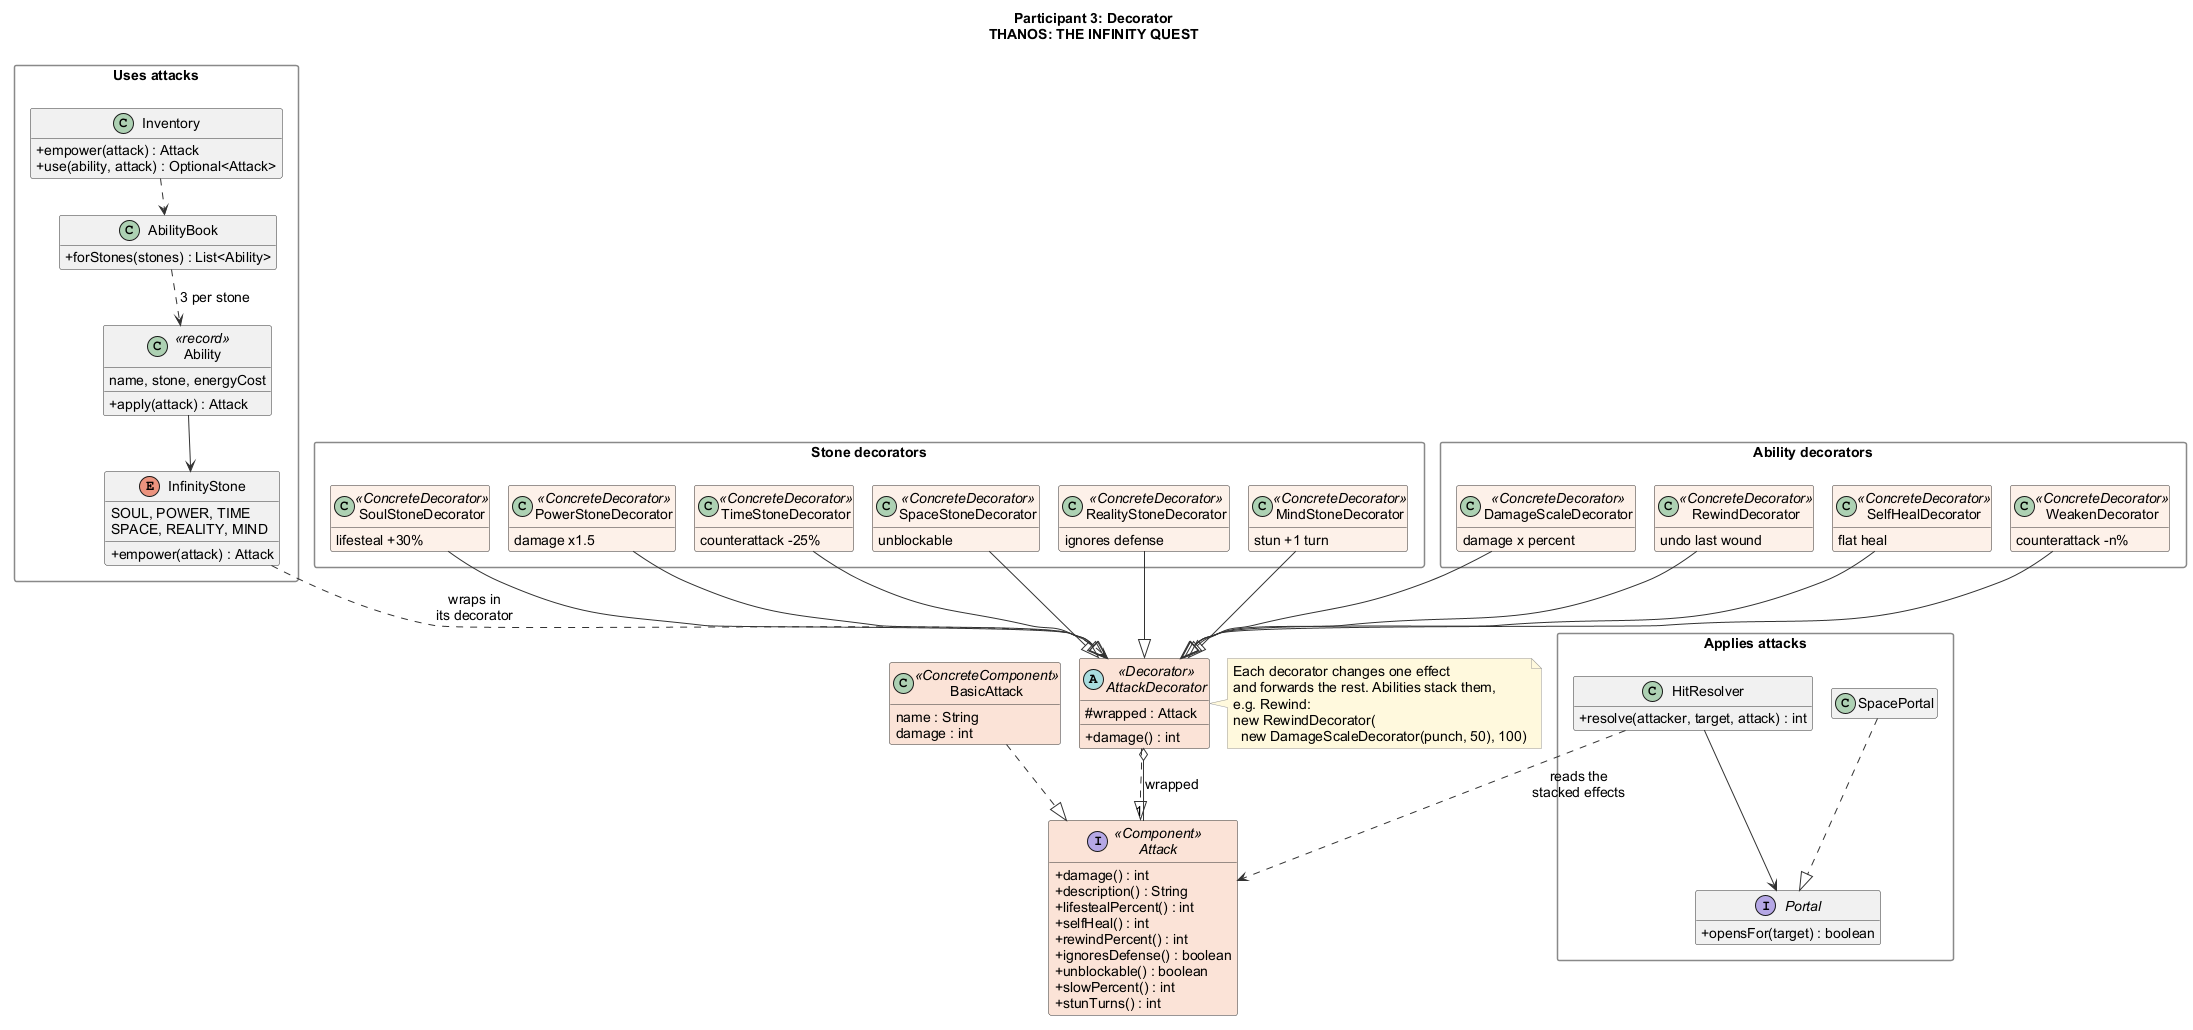
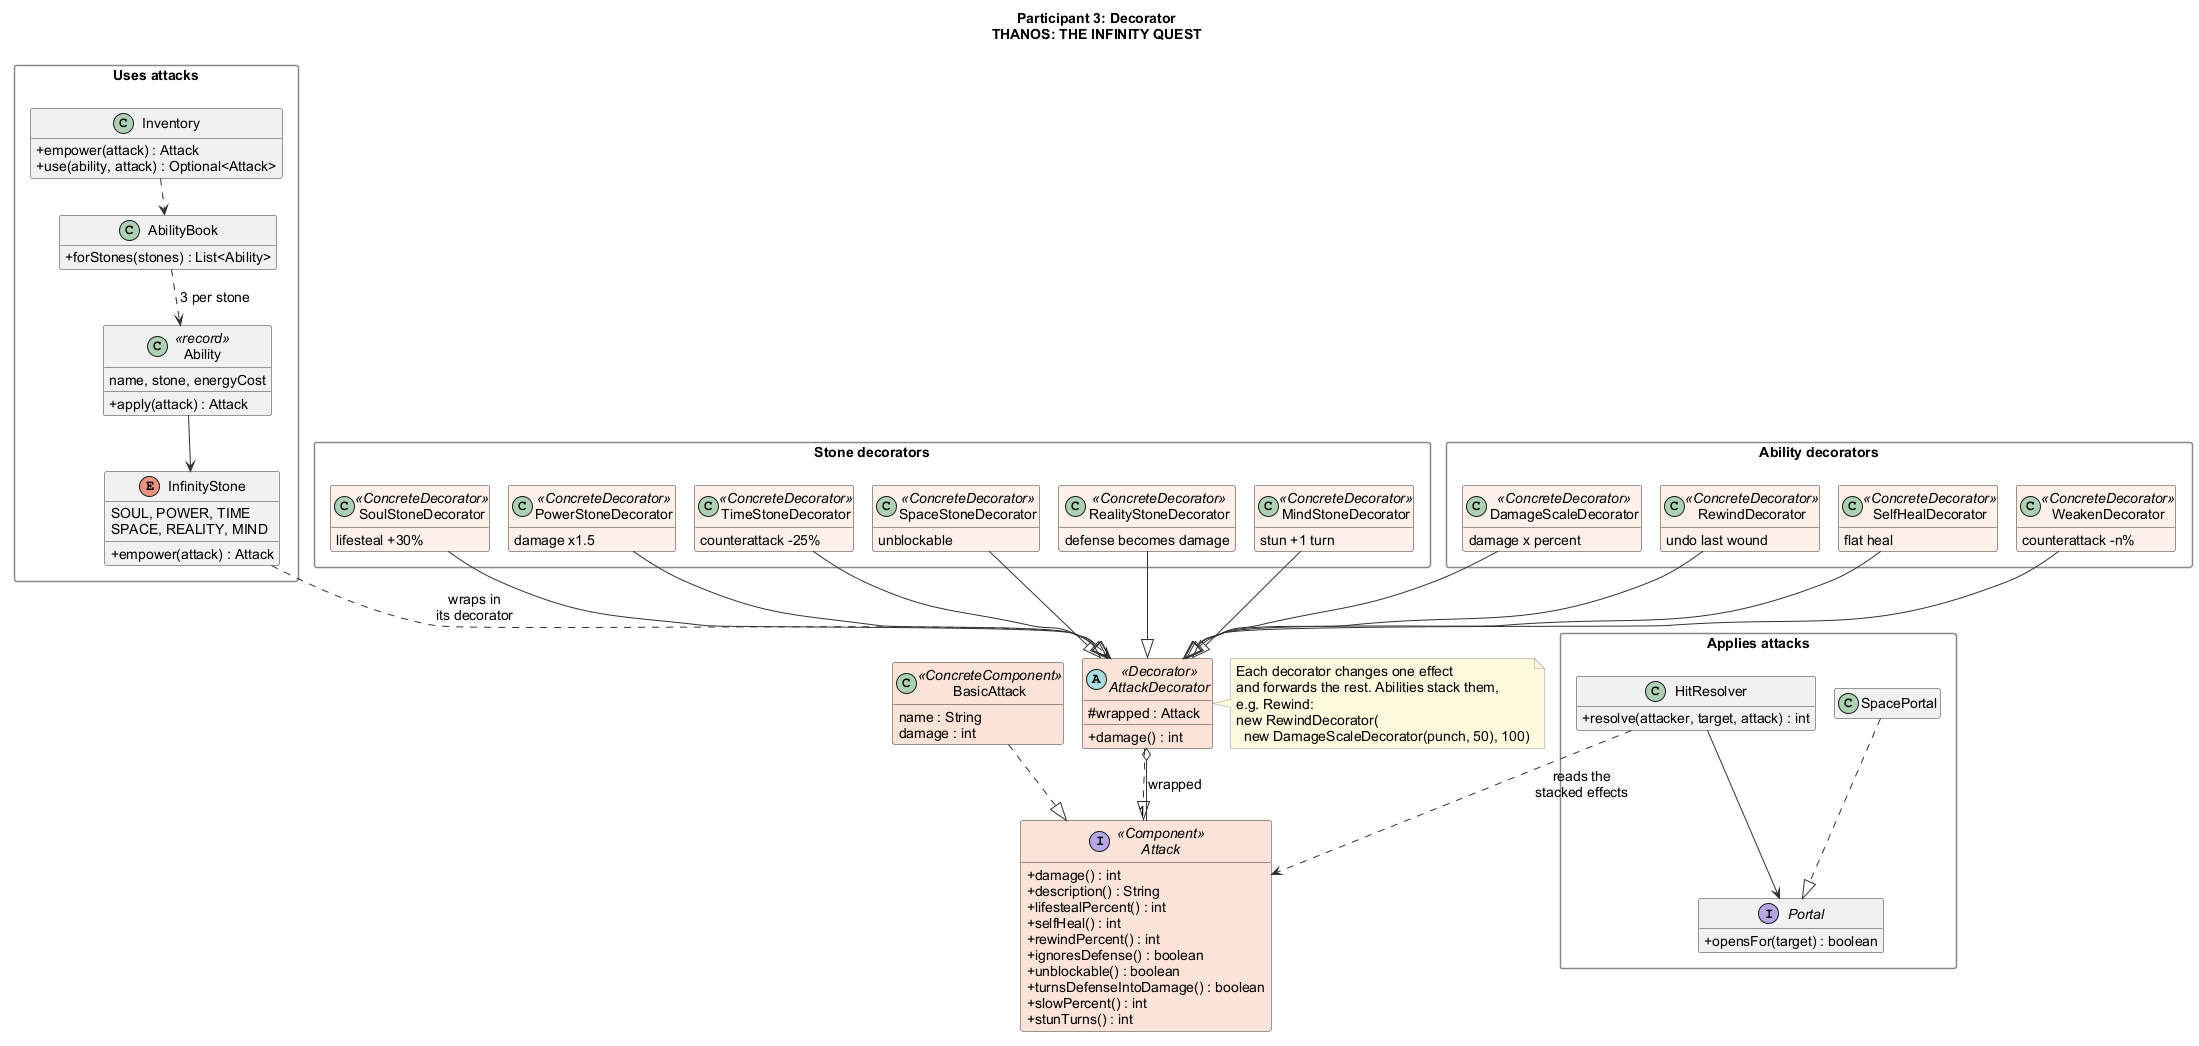
feat: Reality Stone turns enemy defense into extra damage
Space keeps ignoring defense, so the two stones no longer overlap. A new
Attack.turnsDefenseIntoDamage() flag drives it; Reality still reports
ignoresDefense() so code that does not know the flag deals full damage.

diff --git a/participant3/src/main/java/com/thanos/participant3/patterns/decorator/HitResolver.java b/participant3/src/main/java/com/thanos/participant3/patterns/decorator/HitResolver.java
@@ -28,8 +28,7 @@ public final class HitResolver {
         if (attacker == null || target == null || attack == null) {
             throw new IllegalArgumentException("Attacker, target and attack are required");
         }
-        int dealt = attack.ignoresDefense() || attack.unblockable()
-                ? attack.damage() : applyDefense(attack.damage(), target.defense());
+        int dealt = damageAgainst(attack, target.defense());
         if (portal.opensFor(target)) {
             lastWound.put(target.name(), 0);
             sendBack(attacker, target, dealt);
@@ -55,8 +54,17 @@ public final class HitResolver {
 
     /** Defense is a percent of damage blocked, capped at 80. */
     public static int applyDefense(int damage, int defense) {
-        return damage * (100 - Math.max(0, Math.min(MAX_DEFENSE, defense))) / 100;
+        return damage * (100 - clampDefense(defense)) / 100;
     }
+
+    /** Reality turns defense into extra damage; Space and Reality pass through it; anything else is blocked. */
+    public static int damageAgainst(Attack attack, int defense) {
+        if (attack.turnsDefenseIntoDamage()) return attack.damage() * (100 + clampDefense(defense)) / 100;
+        if (attack.ignoresDefense() || attack.unblockable()) return attack.damage();
+        return applyDefense(attack.damage(), defense);
+    }
+
+    private static int clampDefense(int defense) { return Math.max(0, Math.min(MAX_DEFENSE, defense)); }
 
     public int lastWound(Combatant combatant) { return lastWound.getOrDefault(combatant.name(), 0); }
 

diff --git a/participant3/src/test/java/com/thanos/participant3/AttackDecoratorTest.java b/participant3/src/test/java/com/thanos/participant3/AttackDecoratorTest.java
@@ -22,11 +22,11 @@ class AttackDecoratorTest {
         Attack combo = new RealityStoneDecorator(new TimeStoneDecorator(new PowerStoneDecorator(punch)));
 
         assertEquals(75, combo.damage());
-        assertTrue(combo.ignoresDefense());
+        assertTrue(combo.turnsDefenseIntoDamage());
         assertEquals(TimeStoneDecorator.SLOW_PERCENT, combo.slowPercent());
         assertFalse(combo.unblockable());
         assertEquals("Punch (50) + Power Stone (x1.5 damage) + Time Stone (counterattack -25%)"
-                + " + Reality Stone (ignores defense)", combo.description());
+                + " + Reality Stone (defense becomes damage)", combo.description());
     }
 
     @Test
@@ -40,12 +40,14 @@ class AttackDecoratorTest {
     }
 
     @Test
-    void realityStoneIgnoresDefense() {
+    void defenseBlocksSpaceIgnoresRealityUses() {
         HitResolver resolver = new HitResolver(new EventBus());
         FakeCombatant thanos = new FakeCombatant("Thanos", 1000, 1000, 0);
 
         assertEquals(35, resolver.resolve(thanos, new FakeCombatant("Champion", 500, 500, 30), punch));
         assertEquals(50, resolver.resolve(thanos, new FakeCombatant("Champion", 500, 500, 30),
+                new SpaceStoneDecorator(punch)));
+        assertEquals(65, resolver.resolve(thanos, new FakeCombatant("Champion", 500, 500, 30),
                 new RealityStoneDecorator(punch)));
     }
 

diff --git a/participant3/src/main/java/com/thanos/participant3/stones/AbilityBook.java b/participant3/src/main/java/com/thanos/participant3/stones/AbilityBook.java
@@ -36,8 +36,8 @@ public final class AbilityBook {
                     new Ability("Gravity Well", SPACE, 30, "Crushes the enemy: its next hit is 40% weaker",
                             attack -> new WeakenDecorator(SPACE.empower(attack), 40))),
             REALITY, List.of(
-                    new Ability("Law Breaker", REALITY, 30, "Switches off the enemy's defense for one hit"),
-                    new Ability("Distortion", REALITY, 45, "Bends reality: +50% damage through defense",
+                    new Ability("Law Breaker", REALITY, 30, "Turns the enemy's defense into extra damage"),
+                    new Ability("Distortion", REALITY, 45, "Bends reality: +50%, defense becomes damage",
                             attack -> new DamageScaleDecorator(REALITY.empower(attack), 150)),
                     new Ability("Transmutation", REALITY, 35, "Turns part of the enemy to stone: next hit -50%",
                             attack -> new WeakenDecorator(REALITY.empower(attack), 50))),

diff --git a/participant3/src/main/java/com/thanos/participant3/patterns/decorator/RealityStoneDecorator.java b/participant3/src/main/java/com/thanos/participant3/patterns/decorator/RealityStoneDecorator.java
@@ -1,9 +1,10 @@
 package com.thanos.participant3.patterns.decorator;
 
-/** Decorator: ignores the target's defense. */
+/** Decorator: the target's defense adds to the damage instead of blocking it. */
 public final class RealityStoneDecorator extends AttackDecorator {
     public RealityStoneDecorator(Attack wrapped) { super(wrapped); }
 
     public boolean ignoresDefense() { return true; }
-    public String description() { return wrapped.description() + " + Reality Stone (ignores defense)"; }
+    public boolean turnsDefenseIntoDamage() { return true; }
+    public String description() { return wrapped.description() + " + Reality Stone (defense becomes damage)"; }
 }

diff --git a/participant3/src/main/java/com/thanos/participant3/stones/InfinityStone.java b/participant3/src/main/java/com/thanos/participant3/stones/InfinityStone.java
@@ -10,7 +10,7 @@ public enum InfinityStone {
     POWER("Power Stone", 0x8E44ADFF, "Raises damage", PowerStoneDecorator::new),
     TIME("Time Stone", 0x27AE60FF, "Weakens the enemy's counterattack", TimeStoneDecorator::new),
     SPACE("Space Stone", 0x2E86DEFF, "Makes attacks unblockable", SpaceStoneDecorator::new),
-    REALITY("Reality Stone", 0xE74C3CFF, "Ignores enemy defense", RealityStoneDecorator::new),
+    REALITY("Reality Stone", 0xE74C3CFF, "Turns enemy defense into damage", RealityStoneDecorator::new),
     MIND("Mind Stone", 0xF1C40FFF, "Stuns the enemy", MindStoneDecorator::new);
 
     private final String displayName;

diff --git a/participant3/src/main/java/com/thanos/participant3/patterns/decorator/AttackDecorator.java b/participant3/src/main/java/com/thanos/participant3/patterns/decorator/AttackDecorator.java
@@ -18,6 +18,7 @@ public abstract class AttackDecorator implements Attack {
     public int rewindPercent() { return wrapped.rewindPercent(); }
     public boolean ignoresDefense() { return wrapped.ignoresDefense(); }
     public boolean unblockable() { return wrapped.unblockable(); }
+    public boolean turnsDefenseIntoDamage() { return wrapped.turnsDefenseIntoDamage(); }
     public int slowPercent() { return wrapped.slowPercent(); }
     public int stunTurns() { return wrapped.stunTurns(); }
 }

diff --git a/participant3/src/test/java/com/thanos/participant3/AbilityBookTest.java b/participant3/src/test/java/com/thanos/participant3/AbilityBookTest.java
@@ -53,7 +53,7 @@ class AbilityBookTest {
         assertEquals(40, punchWith("Gravity Well").slowPercent());
         Attack distortion = punchWith("Distortion");
         assertEquals(90, distortion.damage());
-        assertTrue(distortion.ignoresDefense());
+        assertTrue(distortion.turnsDefenseIntoDamage());
         assertEquals(50, punchWith("Transmutation").slowPercent());
         Attack spike = punchWith("Mind Spike");
         assertEquals(90, spike.damage());

diff --git a/participant3/src/main/java/com/thanos/participant3/patterns/decorator/Attack.java b/participant3/src/main/java/com/thanos/participant3/patterns/decorator/Attack.java
@@ -10,6 +10,7 @@ public interface Attack {
     default int rewindPercent() { return 0; }
     default boolean ignoresDefense() { return false; }
     default boolean unblockable() { return false; }
+    default boolean turnsDefenseIntoDamage() { return false; }
     default int slowPercent() { return 0; }
     default int stunTurns() { return 0; }
 }

diff --git a/participant3/docs/report/participant3-report.md b/participant3/docs/report/participant3-report.md
@@ -128,8 +128,8 @@ Each of the six stones changes an attack in its own way:
 | Soul | lifesteal |
 | Power | more damage |
 | Time | weaker counterattack |
-| Space | unblockable (ignores defense) |
-| Reality | ignores defense |
+| Space | unblockable: ignores defense |
+| Reality | defense becomes extra damage |
 | Mind | stun |
 
 There are 18 abilities (three per stone), and they combine effects. For example, *Rewind* deals half damage and
@@ -158,7 +158,7 @@ public interface Attack {
     default int lifestealPercent() { return 0; }
     default boolean ignoresDefense() { return false; }
     default int stunTurns() { return 0; }
-    // ... selfHeal, rewindPercent, unblockable, slowPercent
+    // ... selfHeal, rewindPercent, unblockable, turnsDefenseIntoDamage, slowPercent
 }
 ```
 
@@ -272,7 +272,7 @@ The module has 72 JUnit 5 tests, and all of them pass (`mvn -f participant3/pom.
 - the Power Stone raises damage and extends the description;
 - stones stack without a class per combination;
 - decorators keep the other effects of the wrapped attack;
-- the Reality Stone ignores defense;
+- defense blocks a plain hit, the Space Stone ignores it, the Reality Stone turns it into damage;
 - the Soul Stone heals the attacker;
 - a decorator needs something to wrap.
 
